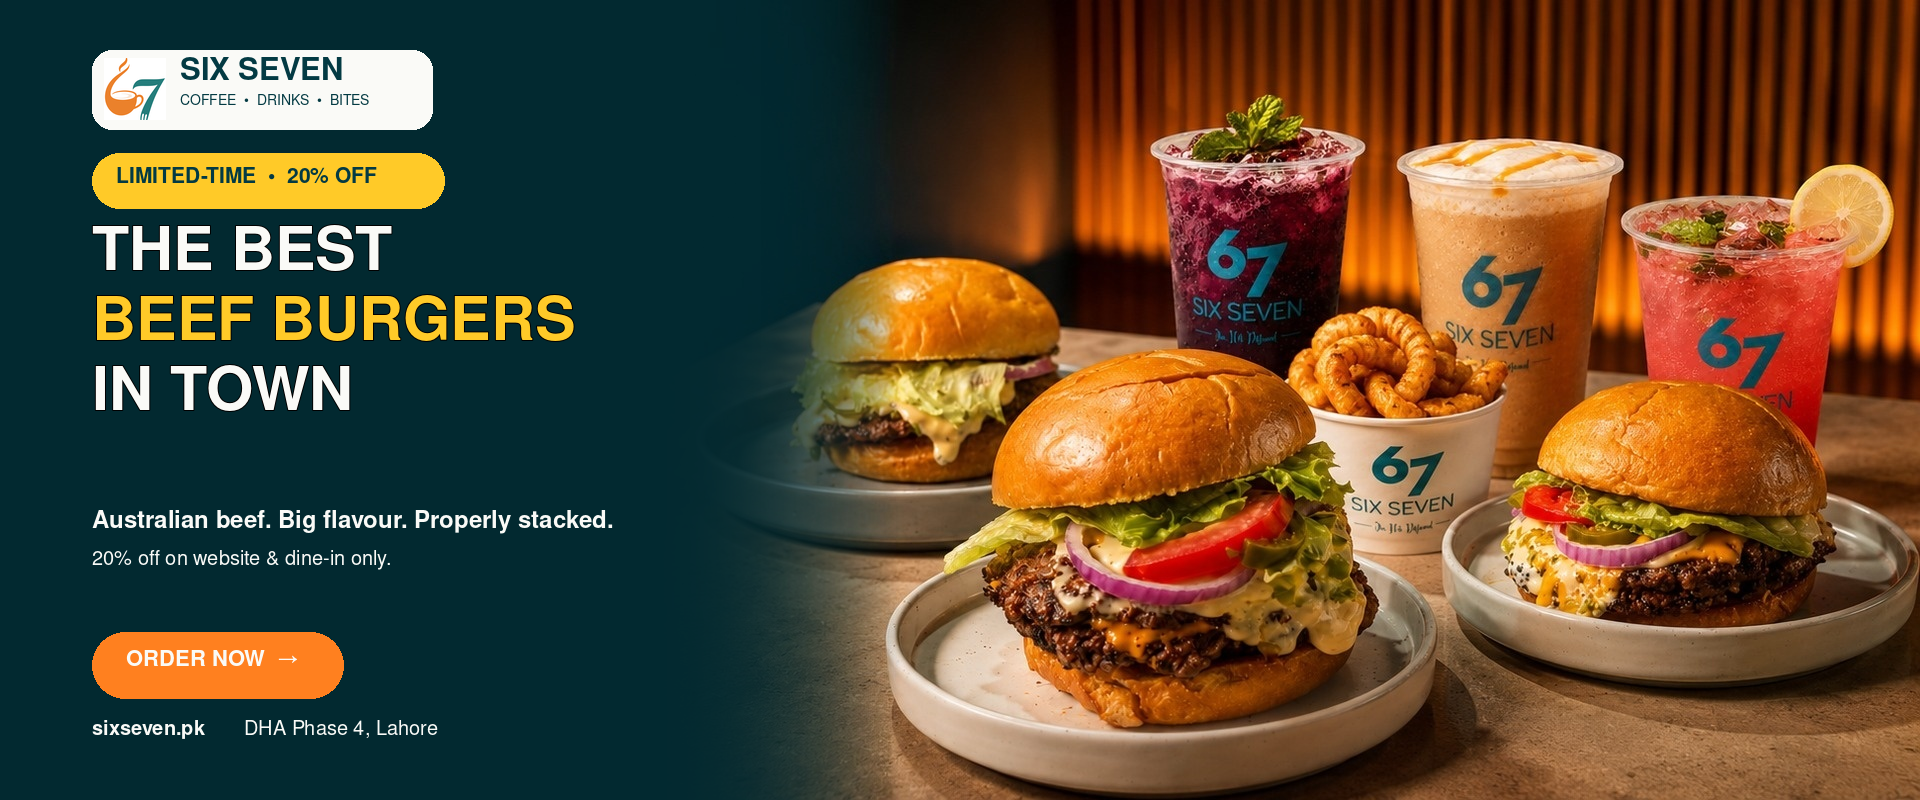
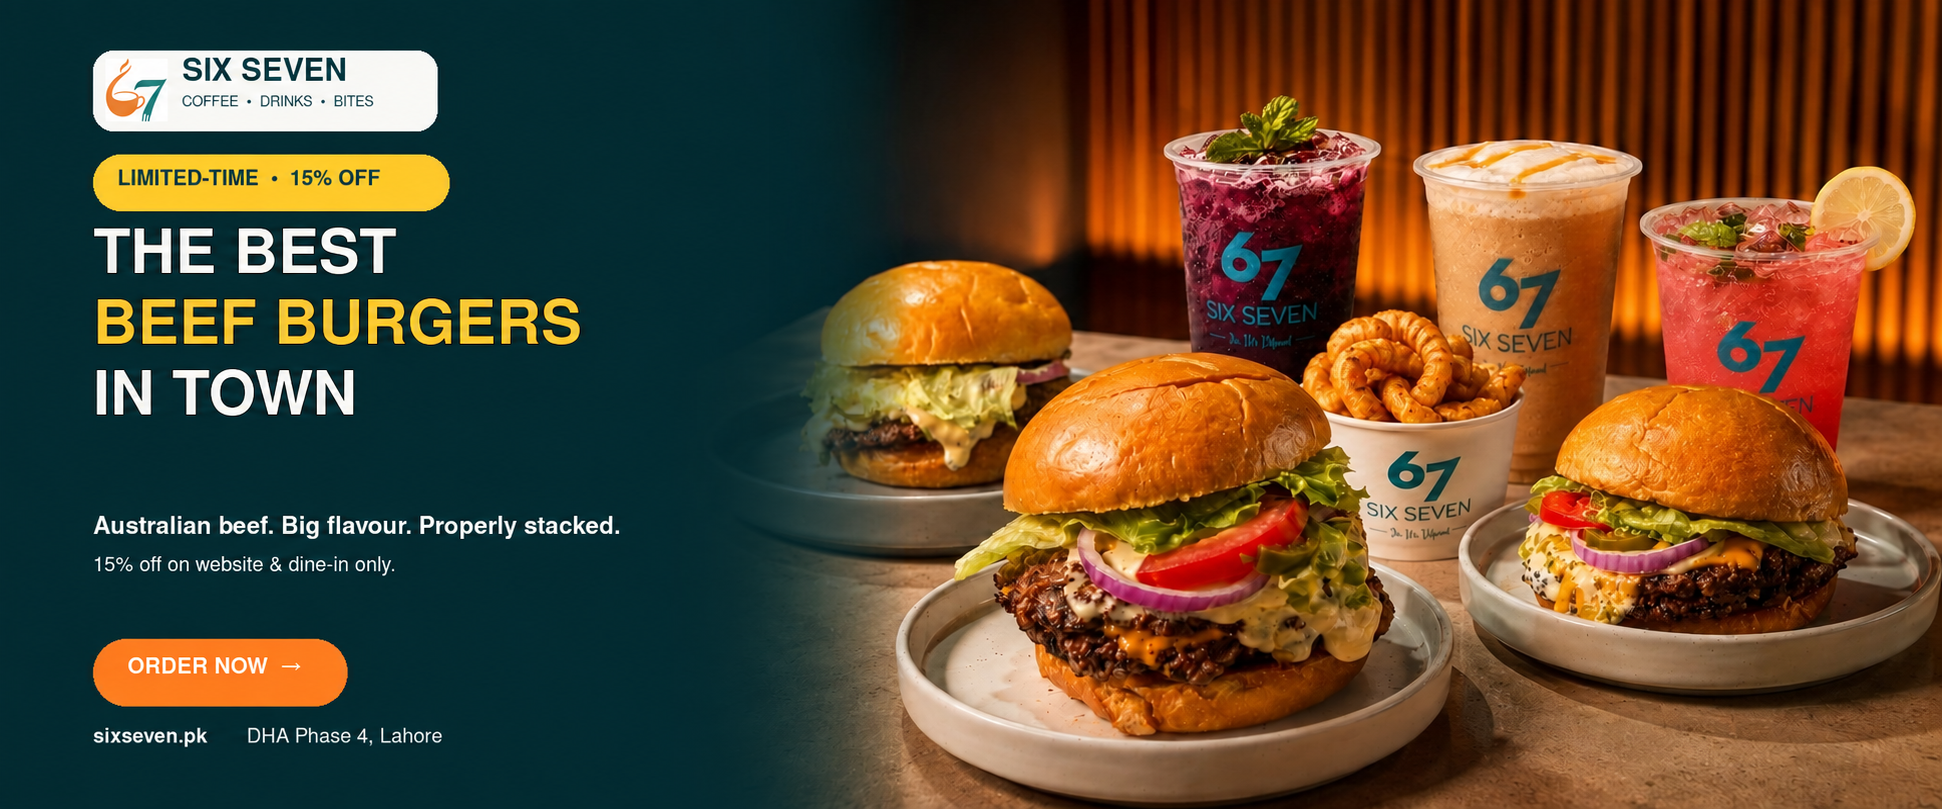
Fix checkout branch IDs and change offer to 15 percent

diff --git a/frontend/src/components/home/hero-slider.tsx b/frontend/src/components/home/hero-slider.tsx
@@ -16,7 +16,7 @@ const SIX_SEVEN_PROMO_SLIDES = [
   {
     id: 1,
     headline: "The Best Beef Burgers in Town",
-    subheadline: "Australian beef burgers with 20% off on website and dine-in.",
+    subheadline: "Australian beef burgers with 15% off on website and dine-in.",
     image: "/images/six-seven-home-slide-beef-burgers.png",
   },
   {

diff --git a/backend/routers/branches.py b/backend/routers/branches.py
@@ -10,7 +10,7 @@ DEFAULT_BRANCH = {
     "name": "Six Seven DHA Phase 4",
     "address": "75 CCA, DD Block, DHA Phase 4",
     "city": "Lahore",
-    "phone": "DM @sixseven.pk",
+    "phone": "0324-6756767",
     "hours": "Mon-Thu 12 PM-1:30 AM; Fri 2 PM-2:30 AM; Sat 12 PM-2:30 AM; Sun 5 PM-1:30 AM",
     "isOpen": True,
     "mapsUrl": "https://maps.google.com/?q=31.4641372,74.3822137",
@@ -35,6 +35,17 @@ def _is_placeholder_branch(branch: dict) -> bool:
     return "flavor hub" in text or "555-01" in text or "new york" in text
 
 
+def _public_branch(branch: dict) -> dict:
+    if _is_placeholder_branch(branch):
+        return {
+            **DEFAULT_BRANCH,
+            "id": branch["id"],
+            "isOpen": branch["isOpen"],
+            "isDefault": branch["isDefault"],
+        }
+    return branch
+
+
 @router.get("")
 @router.get("/")
 def get_branches(restaurant_id: int = Depends(get_restaurant_id)):
@@ -47,11 +58,10 @@ def get_branches(restaurant_id: int = Depends(get_restaurant_id)):
             )
             rows = cur.fetchall()
     if not rows:
-        return [DEFAULT_BRANCH]
+        return []
     branches = [_row_to_branch(r) for r in rows]
-    if all(_is_placeholder_branch(branch) for branch in branches):
-        return [DEFAULT_BRANCH]
-    return branches
+    configured = [branch for branch in branches if not _is_placeholder_branch(branch)]
+    return configured or [_public_branch(branches[0])]
 
 
 @router.get("/{branch_id}")
@@ -65,10 +75,5 @@ def get_branch(branch_id: int, restaurant_id: int = Depends(get_restaurant_id)):
             )
             row = cur.fetchone()
     if not row:
-        if branch_id == DEFAULT_BRANCH["id"]:
-            return DEFAULT_BRANCH
         raise HTTPException(status_code=404, detail="Branch not found")
-    branch = _row_to_branch(row)
-    if _is_placeholder_branch(branch):
-        return DEFAULT_BRANCH
-    return branch
+    return _public_branch(_row_to_branch(row))

diff --git a/backend/scripts/seed_six_seven.py b/backend/scripts/seed_six_seven.py
@@ -273,6 +273,7 @@ SETTINGS = {
     "announcement_active": "true",
     "maps_embed": "https://www.google.com/maps?q=31.4641372,74.3822137&z=16&output=embed",
     "cash_on_delivery": "true",
+    "global_discount_percent": "15",
     "menu_subtitle": "Mighty zingers, Australian beef burgers, tenders, loaded fries, wraps, salads, sweets and drinks — made fresh to order.",
     "footer_tagline": "Mighty burgers, crispy tenders, loaded fries, specialty coffee and cold drinks from DHA Phase 4 Lahore.",
     "closed_message": "We're closed right now. Online ordering opens Friday at 2 PM, Sunday at 5 PM, and 12 PM on other days.",
@@ -290,7 +291,7 @@ SETTINGS = {
             {
                 "image": "/images/six-seven-home-slide-beef-burgers.png",
                 "headline": "The Best Beef Burgers in Town",
-                "subtext": "Australian beef burgers with 20% off on website and dine-in.",
+                "subtext": "Australian beef burgers with 15% off on website and dine-in.",
             },
             {
                 "image": "/images/six-seven-home-slide-sandwiches-salads.png",
